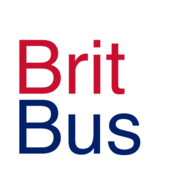
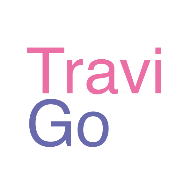
Rebranding

Changed region(s): [[0.0938, 0.1875, 0.8438, 0.8125], [0.4688, 0.1875, 0.5312, 0.25], [0.7812, 0.2188, 0.8438, 0.2812]]

diff --git a/src/App.vue b/src/App.vue
@@ -43,9 +43,9 @@ export default {
         handler(to, from) {
           this.hamburgerMenuOpen = false
           if (to.meta.title === undefined) {
-            document.title = 'BritBus';
+            document.title = 'Travigo';
           } else {
-            document.title = 'BritBus / ' + to.meta.title;
+            document.title = 'Travigo / ' + to.meta.title;
           }
         }
       },
@@ -74,11 +74,11 @@ export default {
           <div class="flex-1 flex items-center justify-center sm:items-stretch sm:justify-start">
             <router-link :to="{ path: '/' }">
               <div class="flex-shrink-0 text-white text-2xl tracking-wider">
-                <span class="text-unionjack-red">
-                  <span class="dark:text-red-400">Brit</span>
+                <span class="text-brand-travi">
+                  <span class="dark:text-red-400">Travi</span>
                 </span>
-                <span class="text-unionjack-blue">
-                  <span class="dark:text-blue-400">Bus</span>
+                <span class="text-brand-go">
+                  <span class="dark:text-blue-400">go</span>
                 </span>
                 <span v-if="this.isDev" class="text-xs font-semibold inline-block px-2 uppercase rounded text-red-600">
                   Dev

diff --git a/vite.config.js b/vite.config.js
@@ -10,9 +10,9 @@ export default defineConfig({
       includeAssets: ['favicon.svg', 'favicon.ico', 'robots.txt', 'apple-touch-icon.png'],
       registerType: 'autoUpdate',
       manifest: {
-        name: 'BritBus',
-        short_name: 'BritBus',
-        description: 'Provides realtime and scheduled information on bus travel in Great Britain',
+        name: 'Travigo',
+        short_name: 'Travigo',
+        description: 'Provides realtime and scheduled information on public transport',
         theme_color: '#f3f4f6',
         icons: [
           {

diff --git a/index.html b/index.html
@@ -3,7 +3,7 @@
   <head>
     <meta charset="UTF-8" />
     <meta name="viewport" content="width=device-width, initial-scale=1.0" />
-    <title>BritBus</title>
+    <title>Travigo</title>
     <meta name="description" content="Provides realtime and scheduled information on bus travel in Great Britain">
     <link rel="icon" href="/favicon.svg" type="image/svg+xml">
     <link rel="alternate icon" href="/favicon.ico" type="image/png" sizes="16x16">

diff --git a/src/views/About.vue b/src/views/About.vue
@@ -9,7 +9,7 @@ import Card from '@/components/Card.vue'
       About
     </PageTitle>
     <Card>
-      BritBus is an app that uses open datasets to provide realtime &amp; up to date information on bus transport within Great Britain.
+      Travigo is an app that uses open datasets to provide realtime &amp; up to date information on public transport within Great Britain.
     </Card>
     <PageTitle>
       Datasets Used

diff --git a/src/views/Home.vue b/src/views/Home.vue
@@ -5,7 +5,7 @@
     </h1>
 
     <p>
-      BritBus is an app that provides realtime &amp; up to date information on bus transport within Great Britain.
+      Travigo is an app that provides realtime &amp; up to date information on public transport within Great Britain.
     </p>
 
     <p class="pt-4">

diff --git a/src/main.css b/src/main.css
@@ -2,9 +2,9 @@
 @import "leaflet.markercluster/dist/MarkerCluster.css";
 @import "leaflet.markercluster/dist/MarkerCluster.Default.css";
 
-.text-unionjack-blue {
-  color: #012169
+.text-brand-travi {
+  color: #eb6ea5;
 }
-.text-unionjack-red {
-  color: #C8102E
+.text-brand-go {
+  color: #696aad;
 }

diff --git a/README.md b/README.md
@@ -1,4 +1,4 @@
-# Britbus Web Interface
+# Travigo Web Interface
 
 ## Getting Started
 ```sh
